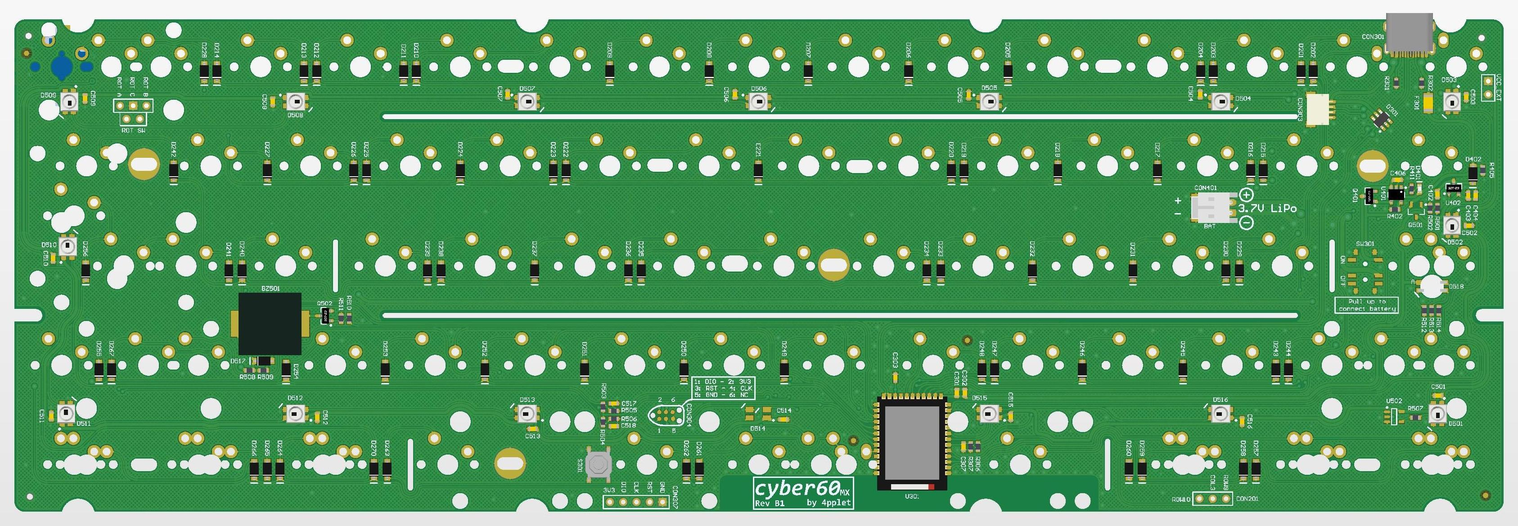
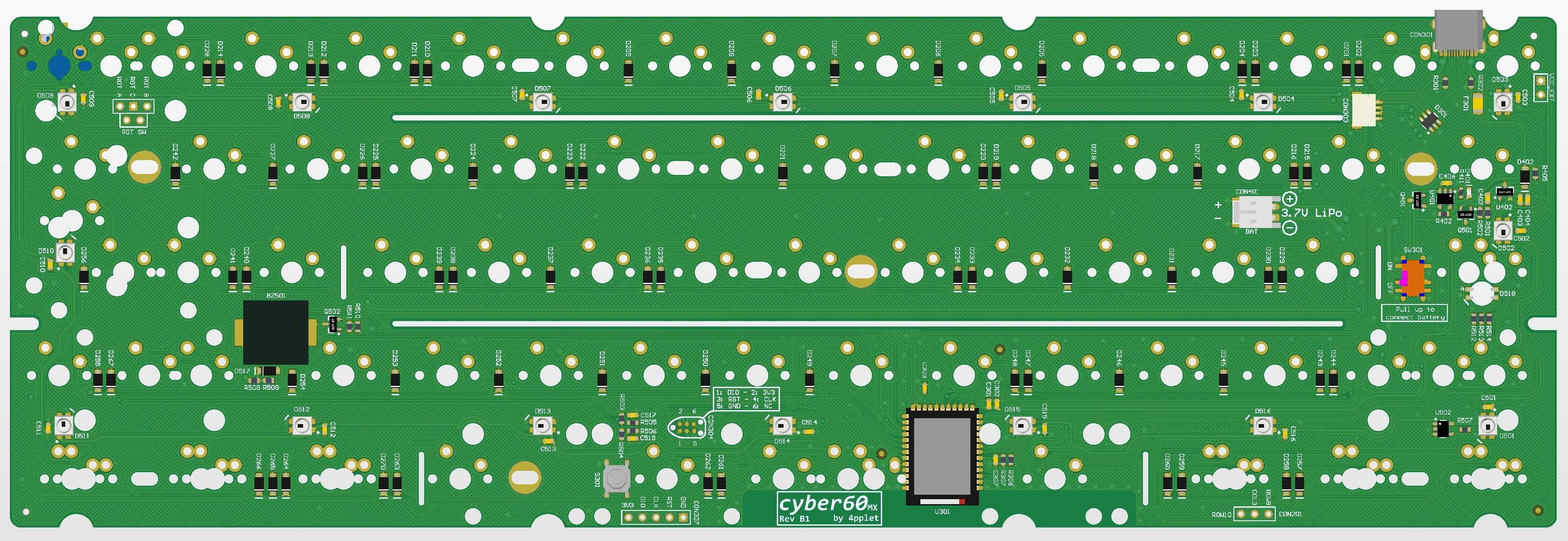
updating readme

Changed region(s): [[0.0, 0.0, 0.9961, 0.9846]]

diff --git a/README.md b/README.md
@@ -22,7 +22,6 @@ CAUSION, project is being tested and only an early rough ZMK-implementation is d
 - Verify charge current
 - Make basic ZMK config for Rev B
 - Implement buzzer, RGB capslock-led and underglow in ZMK
-- Update Alps and SMK-PCB's to Rev B and make releases on github
 
 # MX-version
 ## Layout support cyber60 MX-version:
@@ -41,20 +40,22 @@ CAUSION, project is being tested and only an early rough ZMK-implementation is d
 ![alt text](./readme-images/layout_support_cyber60-alps_Rev_A1.jpg "Layout support")
 
 ## Altium view of - cyber60 ALPS-version:
-![alt text](./readme-images/cyber60-alps_Rev_A1.jpg "PCB View - Rev A")
+![alt text](./readme-images/cyber60-alps_Rev_B1.jpg "PCB View - Rev B")
 
 ## ALPS Revisions:
 - A1 - initial revision/prototype, builds on MX rev A2
+- B1 (prerelease) - Adding underglow, buzzer and rotary support. Simplifying voltage measurement circuit (tiny bit more leak current). Changing matrix to duplex.
 
 # SMK-version
 ## Layout support cyber60 SMK-version:
 ![alt text](./readme-images/layout_support_cyber60-smk_Rev_A1.jpg "Layout support")
 
 ## Altium view of - cyber60 SMK-version:
-![alt text](./readme-images/cyber60-smk_Rev_A1.jpg "PCB View - Rev A")
+![alt text](./readme-images/cyber60-smk_Rev_B1.jpg "PCB View - Rev B")
 
 ## SMK Revisions:
 - A1 - initial revision/prototype, builds on ALPS rev A1
+- B1 (prerelease) - Adding underglow, buzzer and rotary support. Simplifying voltage measurement circuit (tiny bit more leak current). Changing matrix to duplex.
 
 ## Note:
 - Voltage measurement and power consumption for revision A1/A2 is not fully verified
